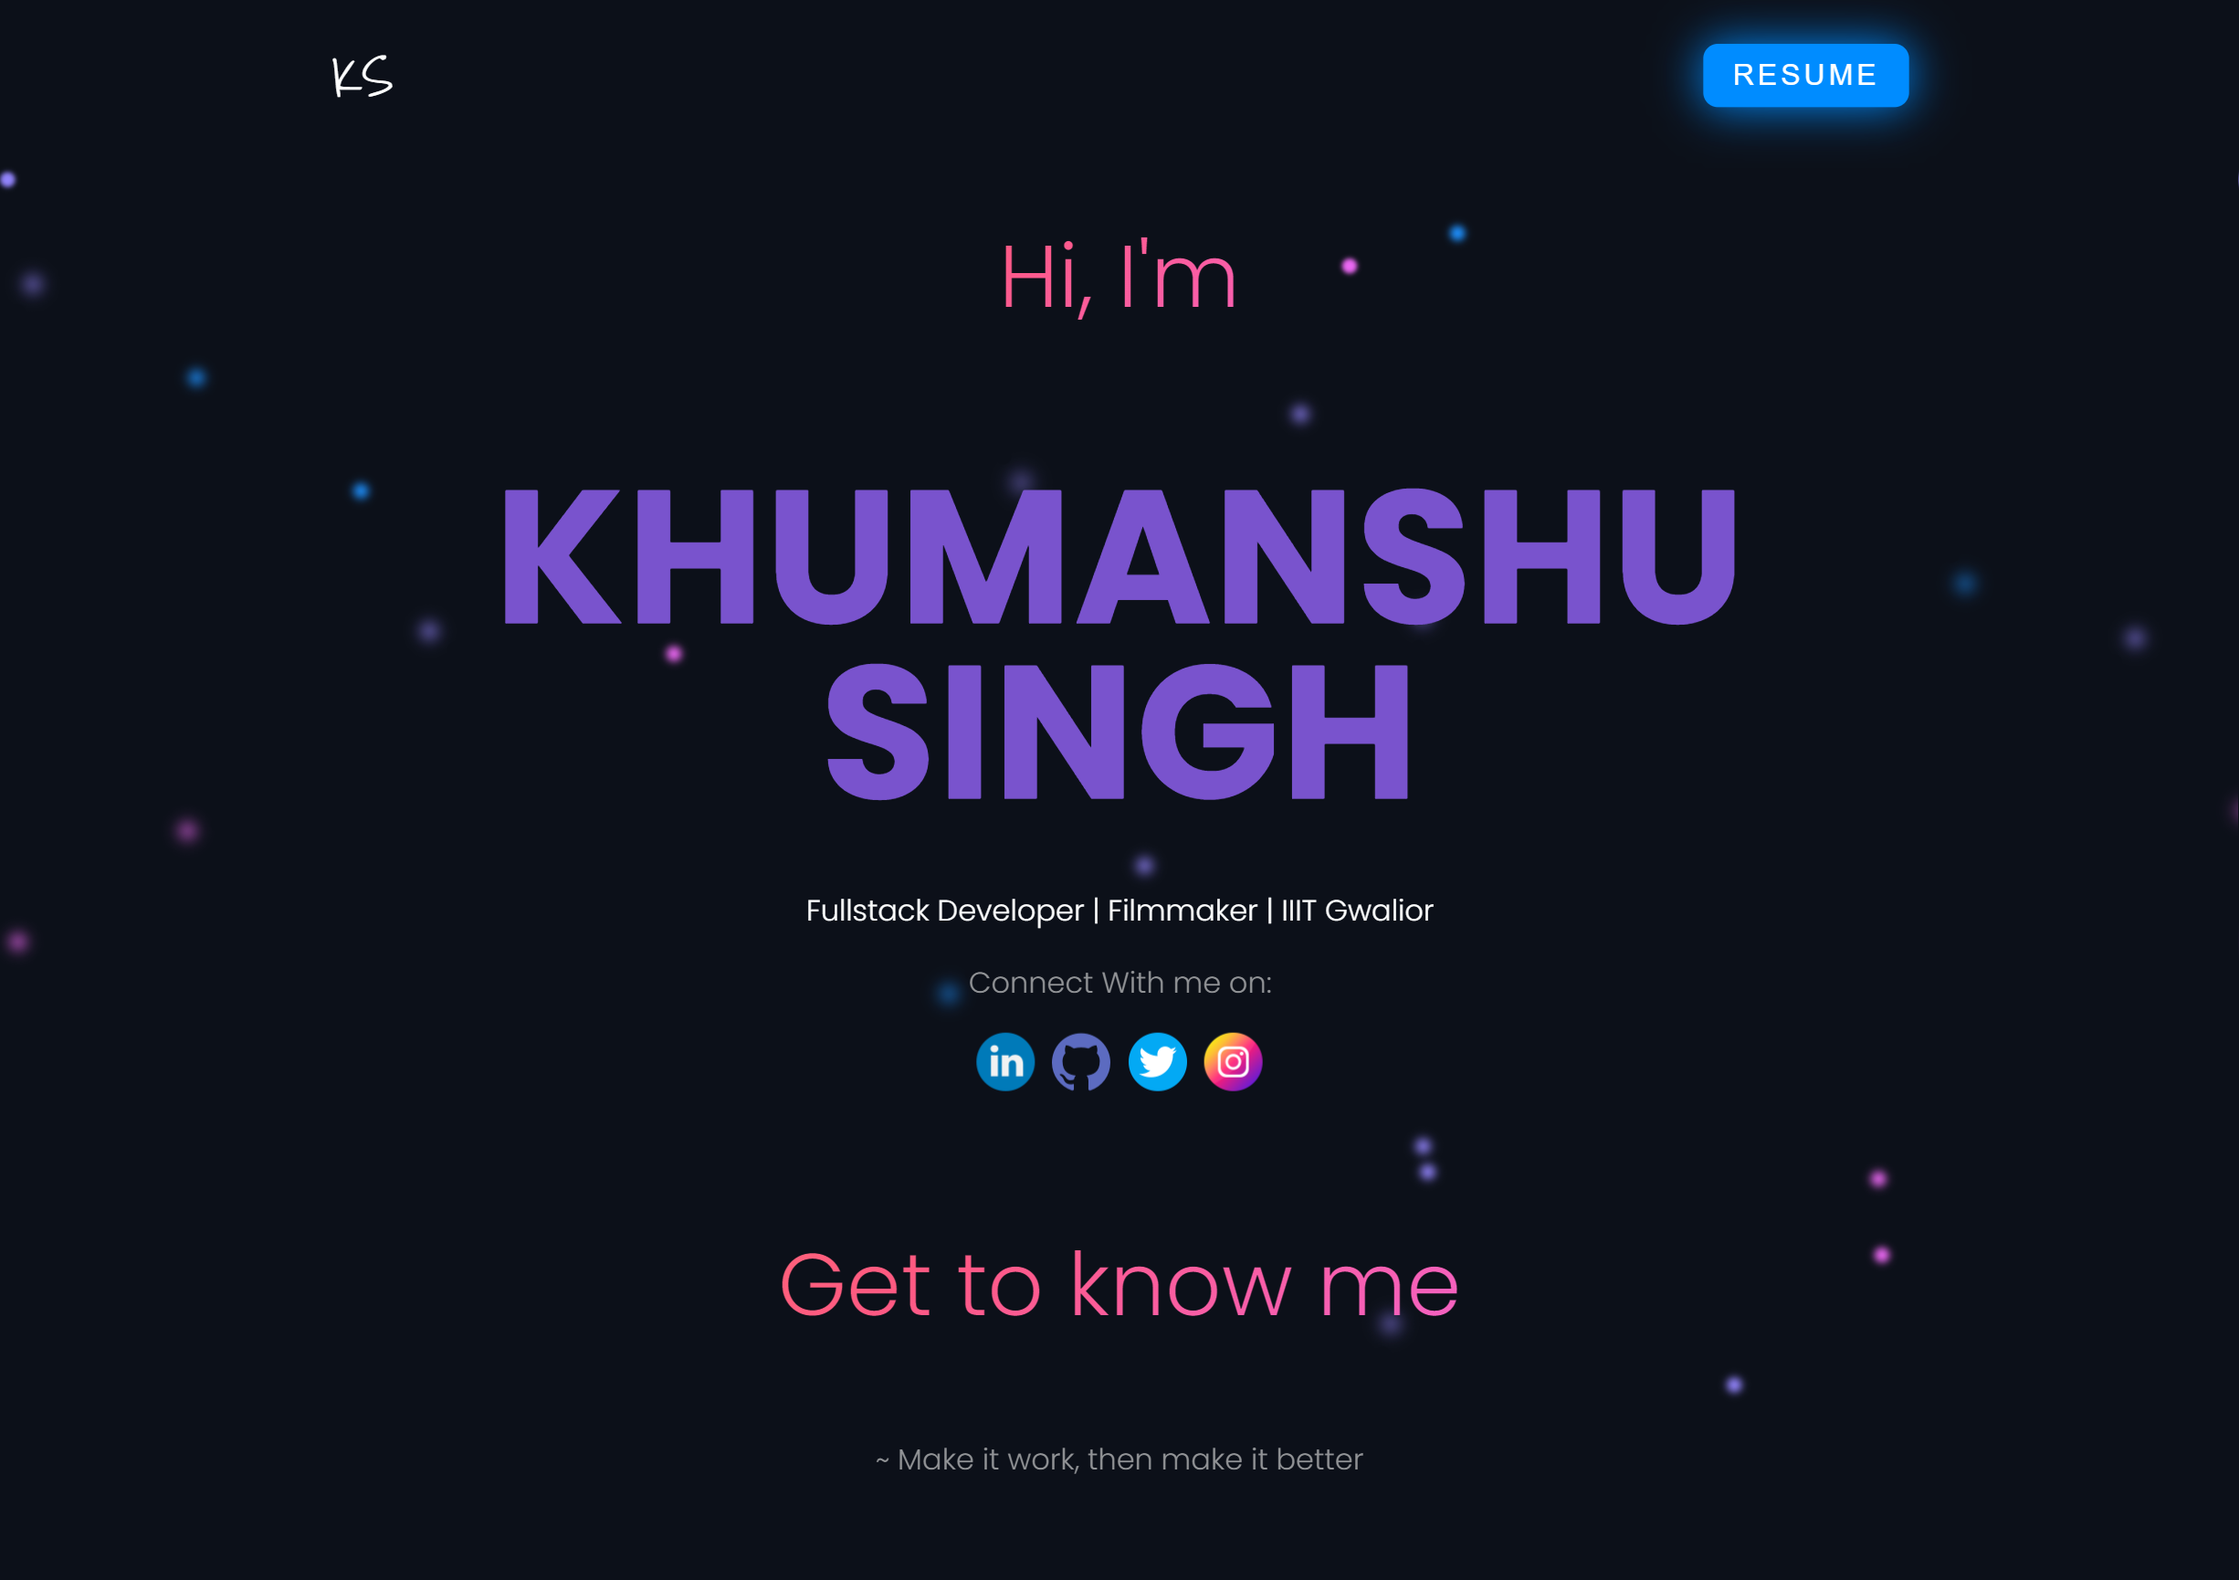
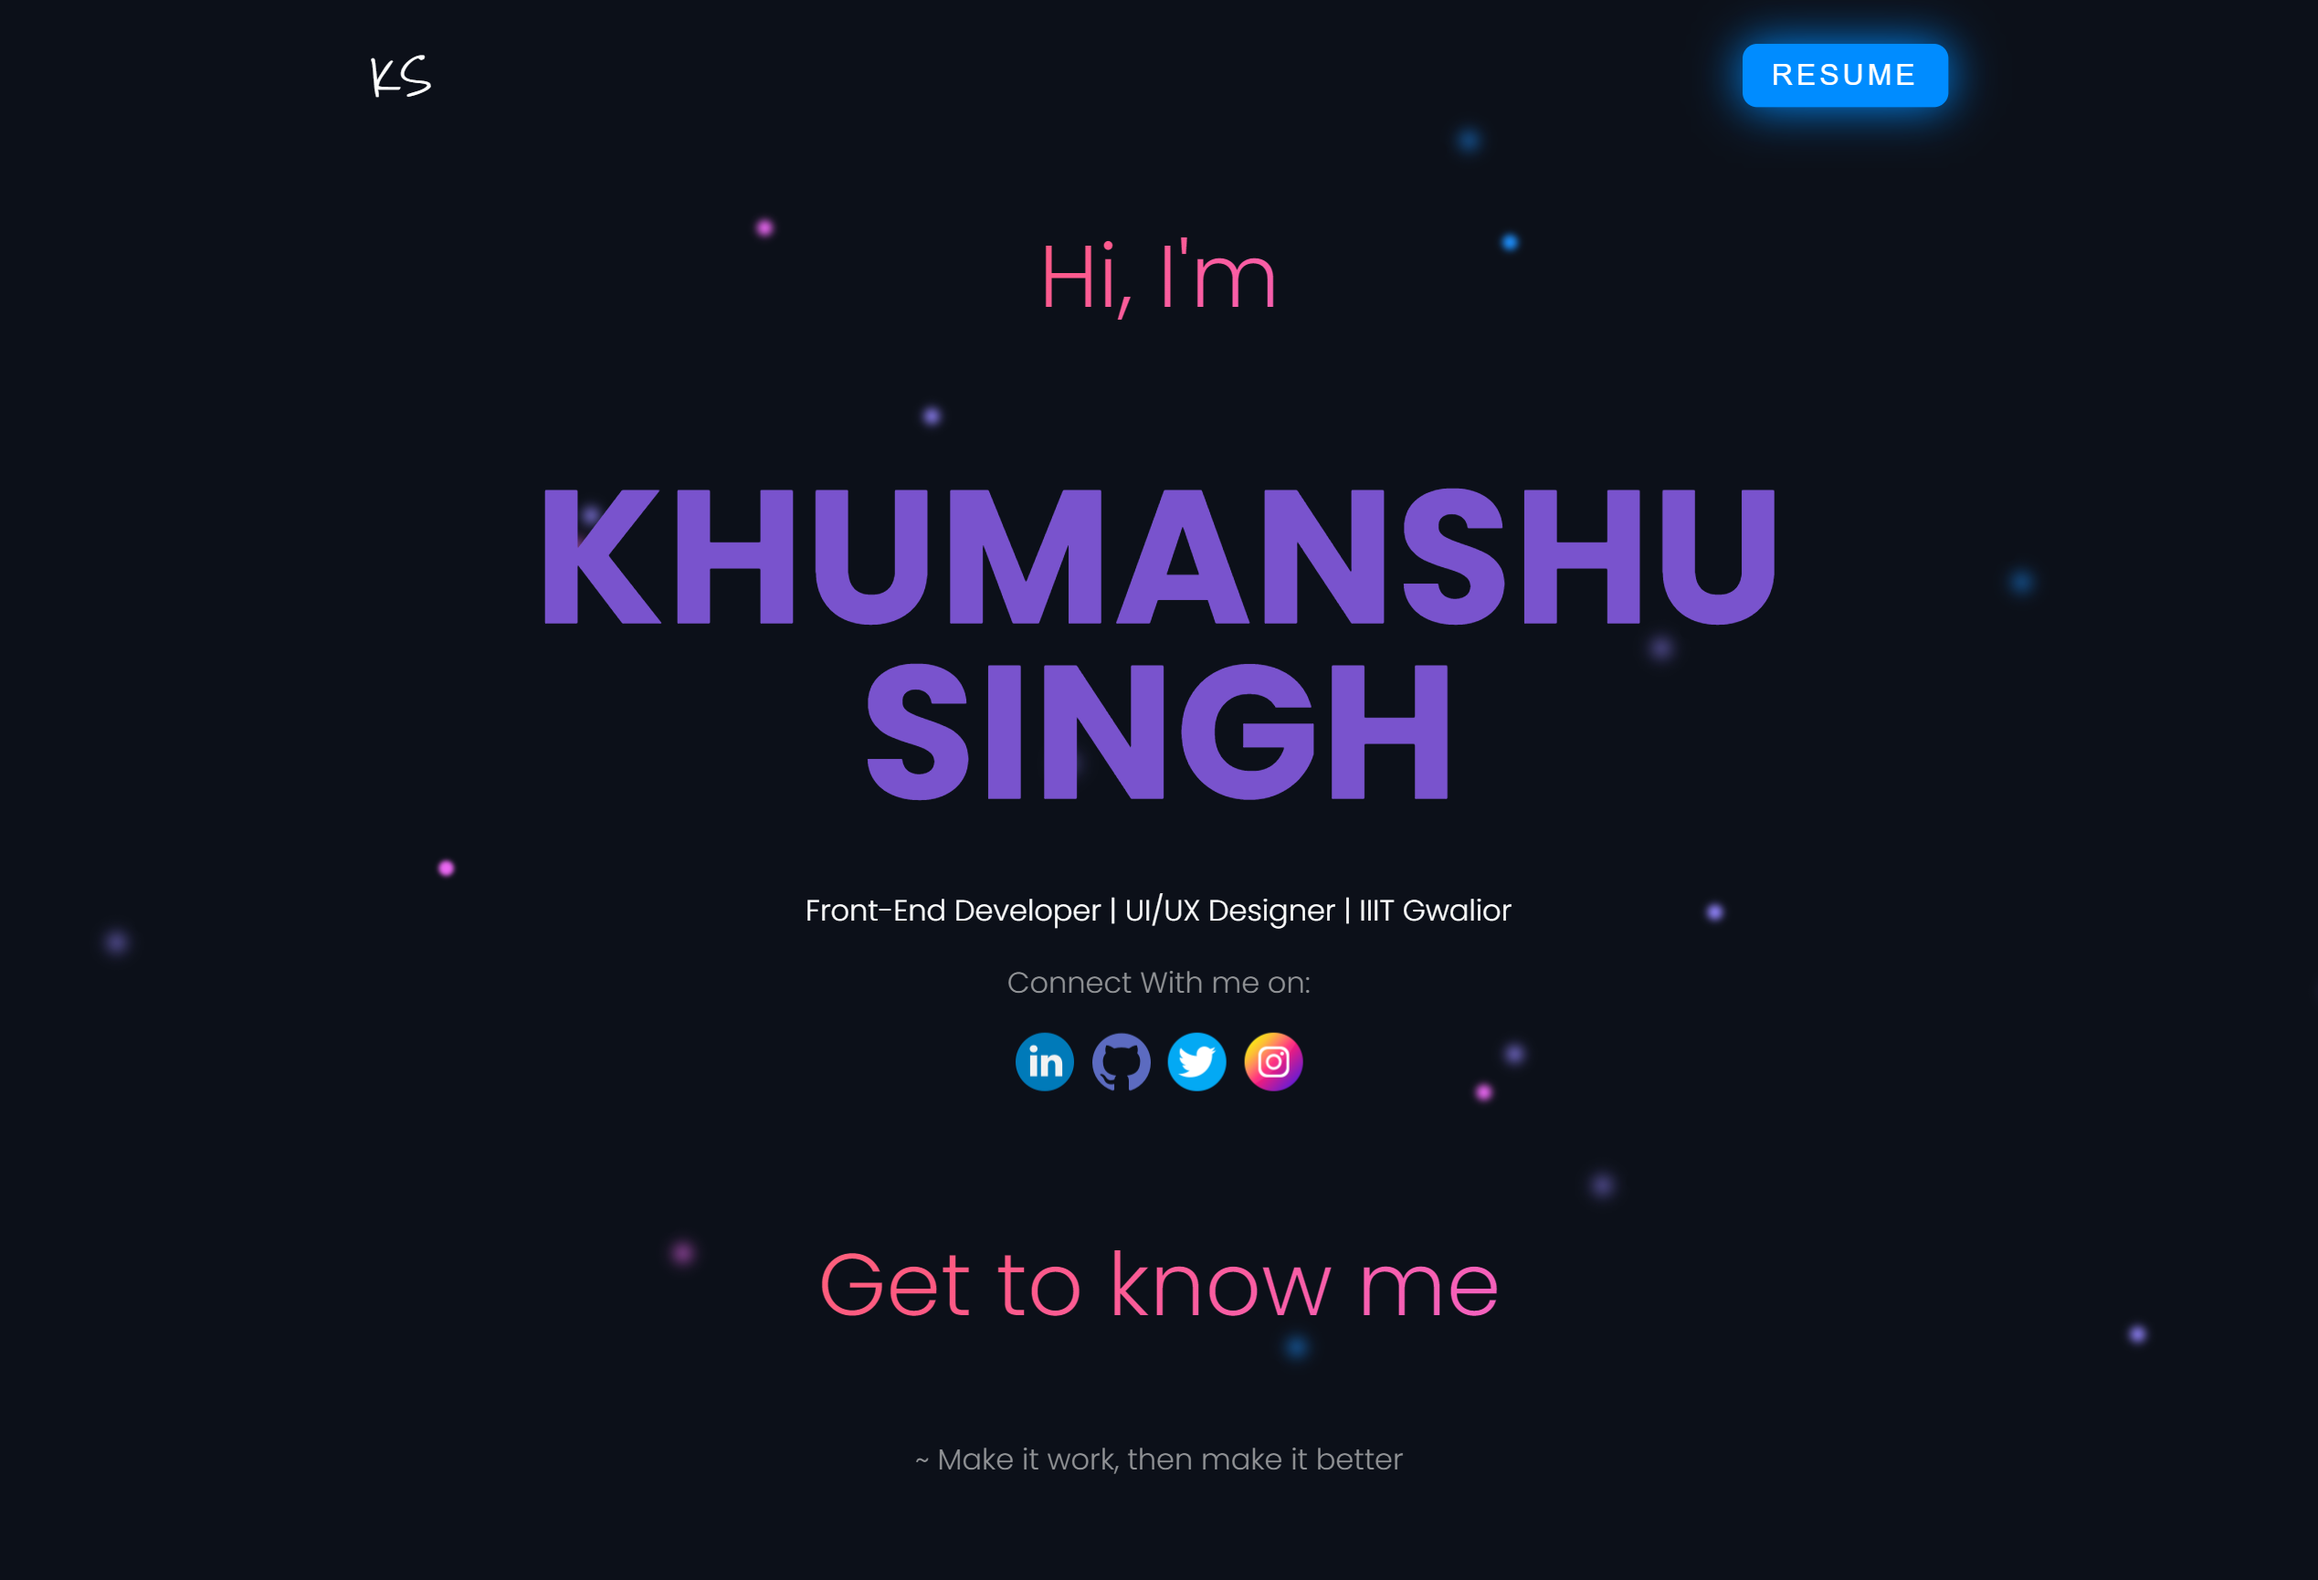
updated preiview n headline

diff --git a/index.html b/index.html
@@ -81,7 +81,7 @@
       <p class="heading">Hi, I'm</p>
       <h1 class="animated-gradient">KHUMANSHU SINGH</h1>
       <p class="paragraph tagline">
-        Front-End Developer | Filmmaker | IIIT Gwalior
+        Front-End Developer | UI/UX Designer | IIIT Gwalior
       </p>
       <p class="connect-social grey-highlight">Connect With me on:</p>
       <div class="social-icons">
